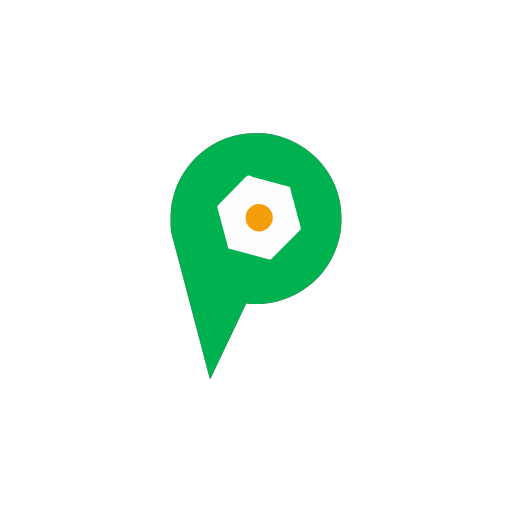
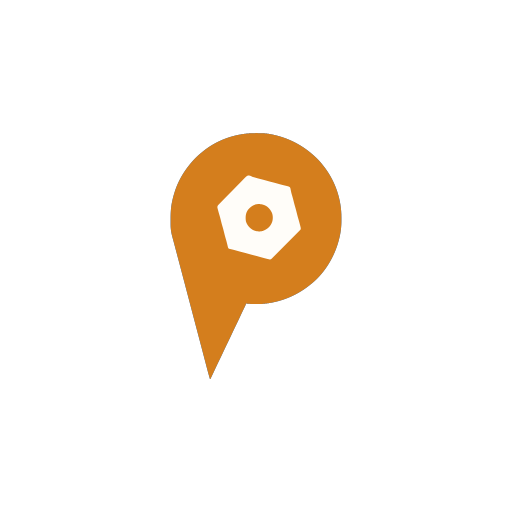
Draw the mark in the brand's amber, not the artwork's green.
The logo arrived green while the brand token is signal amber, and
.ai/rules/tokens.md already recorded that this exact green was proposed as
the brand once and turned down. Asked to settle it, we keep the brand and
move the mark.

So the SVG is now the source of the geometry alone. Each of its fills maps
to a palette token in scripts/lib/svg-mark.mjs, and the generated
src/lib/logo.ts carries token names rather than hexes -- a re-export in new
colours throws there instead of guessing. AppLogo reads the palette by
scheme, the way every lucide glyph here already does, since react-native-svg
sits outside NativeWind and has no currentColor to inherit.

The counter becomes brand-foreground, which is what it literally is: the
colour meant to sit on the brand. That earns dark mode for free -- near
white on amber in light, near black on lighter amber in dark. The dot drops
its second accent and shares brand with the pin, reading as the pin showing
through the counter.

Icons take the light values in both themes; a launcher icon has no scheme to
follow, and Android's themed layer is a silhouette it tints itself.

Changed region(s): [[0.3125, 0.25, 0.6875, 0.75]]

diff --git a/src/lib/logo.ts b/src/lib/logo.ts
@@ -8,17 +8,21 @@ export const LOGO_VIEW_BOX = '190.65 54.69 618.76 890.31';
 /** How much narrower than tall the mark is, from those same bounds. */
 export const LOGO_ASPECT = 618.76 / 890.31;
 
+/** The palette tokens the mark is drawn in. */
+export type LogoRole = 'brand' | 'brand-foreground';
+
 /** One filled path of the mark, painted in the order they are listed. */
-export type LogoShape = { d: string; fill: string; transform: string };
+export type LogoShape = { d: string; role: LogoRole; transform: string };
 
 /**
- * The mark carries its own colours rather than taking them from the palette.
- * It is one fixed thing in both themes: the white counter sits against the
- * green it is punched out of, never against the page, so it needs no dark
- * variant. See .ai/rules/logo.md before reaching for a token here.
+ * The mark takes its colours from the palette rather than from the artwork.
+ * The SVG is green; the brand is amber, and the mark follows the brand. The
+ * counter is `brand-foreground` because that is exactly what it is -- the
+ * colour meant to sit on top of the brand -- so it inverts with the theme
+ * without needing a rule of its own. See .ai/rules/logo.md.
  */
 export const LOGO_SHAPES: LogoShape[] = [
-    { d: 'M0 0 C1.10788879 0.00215515 2.21577759 0.0043103 3.35723877 0.00653076 C19.24384663 0.05616655 34.78624969 0.33830816 50.4375 3.3125 C52.06776123 3.61051514 52.06776123 3.61051514 53.73095703 3.91455078 C110.55944732 14.52370118 161.94533198 39.32200436 205.4375 77.3125 C206.25089844 78.01375 207.06429687 78.715 207.90234375 79.4375 C219.67798305 89.78282039 230.84067971 100.91072672 240.4375 113.3125 C241.28946592 114.36506639 242.14375585 115.41575467 243 116.46484375 C286.08561409 169.61408153 310.21604723 238.11134252 309.82861328 306.44873047 C309.81250582 309.81128465 309.82859269 313.17263753 309.84765625 316.53515625 C309.8675999 336.08411415 307.96751781 355.28485527 303.6875 374.375 C303.42928467 375.54216553 303.17106934 376.70933105 302.9050293 377.91186523 C287.92383559 443.85334587 249.79618751 508.93499159 195.4375 550.3125 C194.15398619 551.32299838 192.87151794 552.33482559 191.58984375 553.34765625 C144.49698765 590.2906245 87.09391791 613.00147315 27.4375 618.3125 C26.27476562 618.42335938 25.11203125 618.53421875 23.9140625 618.6484375 C4.03234094 620.27233087 -15.74920783 619.3086945 -35.5625 617.3125 C-35.83924561 618.18890137 -36.11599121 619.06530273 -36.40112305 619.96826172 C-37.47374585 623.05692835 -38.70768017 625.88711552 -40.14453125 628.8203125 C-40.65725586 629.87412109 -41.16998047 630.92792969 -41.69824219 632.01367188 C-42.25157227 633.14353516 -42.80490234 634.27339844 -43.375 635.4375 C-44.5668048 637.88656953 -45.75481962 640.33746094 -46.94140625 642.7890625 C-47.24488983 643.415849 -47.54837341 644.0426355 -47.86105347 644.68841553 C-50.92217723 651.02750241 -53.87018437 657.41752836 -56.8125 663.8125 C-62.11156564 675.30830941 -67.61057556 686.69785667 -73.16592407 698.07159424 C-77.8818148 707.73135944 -82.51038172 717.42000984 -87 727.1875 C-92.40750402 738.94950749 -98.04977821 750.58639724 -103.73748779 762.21472168 C-109.17857175 773.3443535 -114.48600083 784.52059341 -119.66015625 795.77734375 C-124.00073358 805.18554511 -128.51537813 814.50279342 -133.0625 823.8125 C-139.39509975 836.77936934 -145.55963211 849.80922068 -151.6015625 862.9140625 C-155.83399331 872.08850325 -160.19220763 881.20310156 -164.5625 890.3125 C-165.2225 890.3125 -165.8825 890.3125 -166.5625 890.3125 C-170.64934547 876.23543005 -174.51593416 862.11423644 -178.2109375 847.9296875 C-178.74124174 845.90150068 -179.27178152 843.87337544 -179.80253601 841.8453064 C-180.92961979 837.53705486 -182.05535197 833.22845355 -183.17996216 828.91955566 C-185.8951985 818.51688125 -188.61799808 808.11618501 -191.3401432 797.71531677 C-192.27228007 794.15355907 -193.20415797 790.59173368 -194.1360321 787.02990723 C-199.69485524 765.7869543 -205.28951908 744.55354388 -210.89600372 723.32312775 C-213.10983804 714.93958365 -215.32273214 706.55579135 -217.53515625 698.171875 C-217.78003029 697.24395267 -218.02490433 696.31603035 -218.27719879 695.35998917 C-224.11722021 673.22739585 -229.92890624 651.08737219 -235.73978424 628.94711304 C-244.39215167 595.98089908 -253.0568325 563.01798062 -261.75 530.0625 C-261.99458199 529.1352927 -262.23916397 528.2080854 -262.49115753 527.25278091 C-270.76683033 495.88128423 -279.05584689 464.51330918 -287.35336304 433.14758301 C-287.5814437 432.28540476 -287.80952436 431.42322651 -288.04451656 430.53492165 C-288.49794684 428.82100974 -288.95142559 427.10711066 -289.40495396 425.39322472 C-290.50235977 421.2455803 -291.59862272 417.09764072 -292.692276 412.94900513 C-294.66833537 405.45583511 -296.65196934 397.9650477 -298.66906548 390.48280239 C-299.59659042 387.0387299 -300.51796256 383.59302577 -301.43864822 380.14711952 C-301.87174911 378.53252344 -302.30768058 376.91868326 -302.7468071 375.30571556 C-306.67930211 360.85581801 -308.87442191 347.04892838 -308.86328125 332.0078125 C-308.86719107 330.6728401 -308.87153018 329.3378689 -308.87626648 328.00289917 C-308.88365863 325.22129267 -308.88349216 322.43981316 -308.87817383 319.65820312 C-308.87356906 316.86213987 -308.88037059 314.06651433 -308.89868164 311.27050781 C-309.03922833 289.59986027 -307.93776436 268.36085039 -303.25 247.125 C-303.03907715 246.14563477 -302.8281543 245.16626953 -302.61083984 244.15722656 C-300.3819042 234.07417851 -297.66065121 224.16121881 -294.5625 214.3125 C-294.30774902 213.49894043 -294.05299805 212.68538086 -293.79052734 211.84716797 C-282.82392588 177.42097767 -265.03062541 145.49183905 -242.5625 117.3125 C-241.77101563 116.30703125 -240.97953125 115.3015625 -240.1640625 114.265625 C-227.29827822 98.19500637 -212.7397413 83.0421325 -196.5625 70.3125 C-194.85361141 68.87566013 -193.14529321 67.43814165 -191.4375 66 C-137.76723733 22.36932233 -68.77877863 -0.24047175 0 0 Z', fill: '#00B14F', transform: 'translate(499.5625,54.6875)' },
-    { d: 'M0 0 C3.43339424 1.02955233 6.31653655 2.48901244 9.46592712 4.21323299 C11.30107037 4.77440189 13.14940511 5.29803886 15.01670837 5.74057674 C16.60492472 6.20731788 18.19217974 6.67734342 19.77842712 7.15073299 C26.64193356 9.15659908 33.51894945 11.0191659 40.46592712 12.71323299 C48.24167798 14.61104597 55.92582213 16.74661455 63.61045837 18.98276424 C69.53295173 20.69370677 75.47737714 22.25144703 81.46592712 23.71323299 C89.13959047 25.58649193 96.72252814 27.68890554 104.30284119 29.90805721 C112.21147412 32.19847948 120.18931814 34.17096091 128.20909119 36.03330135 C141.49627207 39.22154569 141.49627207 39.22154569 145.46592712 42.21323299 C147.11323649 45.06766782 147.61553511 47.92338089 148.15342712 51.15073299 C148.52828625 52.96277286 148.90732955 54.77395123 149.29014587 56.58432674 C149.47754333 57.5161578 149.6649408 58.44798885 149.85801697 59.40805721 C150.83363254 63.90999411 152.15228786 68.30041332 153.46592712 72.71323299 C155.4499025 79.51408679 157.28600966 86.33105599 158.96592712 93.21323299 C160.62576104 100.01261694 162.44322928 106.74435957 164.40342712 113.46323299 C166.92447885 122.10822812 169.14118388 130.80696436 171.28599548 139.55210018 C172.71103963 145.31940349 174.23751573 151.02979326 175.96592712 156.71323299 C178.09740041 163.74814481 179.9726252 170.83798153 181.77842712 177.96323299 C182.17868103 179.51880917 182.17868103 179.51880917 182.58702087 181.10581112 C182.83194275 182.08485409 183.07686462 183.06389706 183.32920837 184.07260799 C183.54875183 184.94369198 183.76829529 185.81477596 183.99449158 186.71225643 C184.50323194 189.4111359 184.76100818 191.47287177 184.46592712 194.21323299 C182.78877354 196.53355885 182.78877354 196.53355885 180.38842773 198.95929623 C179.48429138 199.8847575 178.58015503 200.81021877 177.64862061 201.76372433 C176.63364743 202.77694993 175.61839442 203.78989528 174.60289001 204.80258846 C173.54260619 205.87783291 172.48335546 206.95409692 171.42506409 208.03130245 C168.54627171 210.9542912 165.65141243 213.86084442 162.75204015 216.76340532 C160.33269318 219.18749958 157.92021232 221.61837404 155.50736803 224.04893792 C149.81385202 229.78317568 144.10617341 235.50305388 138.39048767 241.21518612 C132.49510394 247.10756606 126.62817131 253.02725289 120.77391821 258.9604739 C115.74621535 264.05356235 110.69941427 269.12717871 105.63731569 274.18608105 C102.61433792 277.20778401 99.59962856 280.23673878 96.60385323 283.28543377 C93.78494276 286.15276775 90.94300035 288.99508232 88.08165359 291.82005024 C87.03657219 292.85990399 85.99994546 293.90833635 84.9726963 294.96580982 C77.2011325 302.95098979 77.2011325 302.95098979 72.87196541 303.60526085 C70.58536327 303.3717821 68.64008368 302.93932386 66.46592712 302.21323299 C65.63287048 302.05572567 64.79981384 301.89821835 63.94151306 301.73593807 C63.28441345 301.56989071 62.62731384 301.40384335 61.95030212 301.23276424 C61.18524353 301.04133846 60.42018494 300.84991268 59.63194275 300.65268612 C58.83465759 300.44579159 58.03737244 300.23889706 57.21592712 300.02573299 C56.35676697 299.8072369 55.49760681 299.58874081 54.6124115 299.36362362 C47.47669981 297.5266565 40.39896883 295.5025844 33.32432556 293.44492245 C27.40103335 291.73290911 21.45550422 290.17525575 15.46592712 288.71323299 C7.69021987 286.81522571 0.00604102 284.67985402 -7.67860413 282.44370174 C-13.60109711 280.73275933 -19.54551948 279.17500587 -25.53407288 277.71323299 C-33.29594994 275.81860158 -40.97002255 273.69763007 -48.63685608 271.45029354 C-53.14853321 270.13955131 -57.66266016 268.91594816 -62.23329163 267.82651424 C-63.15368225 267.60672909 -64.07407288 267.38694393 -65.02235413 267.16049862 C-66.78419935 266.74617178 -68.54848325 266.34204432 -70.31532288 265.94956112 C-71.10294006 265.76458065 -71.89055725 265.57960018 -72.70204163 265.38901424 C-73.39579895 265.23344051 -74.08955627 265.07786678 -74.80433655 264.9175787 C-76.53407288 264.21323299 -76.53407288 264.21323299 -78.53407288 261.21323299 C-79.03535703 259.58129989 -79.47215533 257.92903331 -79.86610413 256.26792049 C-80.10450012 255.28275448 -80.34289612 254.29758846 -80.58851624 253.28256893 C-80.83867493 252.22843807 -81.08883362 251.17430721 -81.34657288 250.08823299 C-83.07065714 242.99479784 -84.82700054 235.9417873 -86.97157288 228.96323299 C-89.63951477 220.23158841 -91.76487772 211.37159017 -93.94569397 202.50815487 C-95.69250792 195.45243387 -97.56485009 188.47156341 -99.69032288 181.52182674 C-101.82649033 174.4431542 -103.54044427 167.26359692 -105.301651 160.08432674 C-106.76476525 154.16416779 -108.3283674 148.29929263 -110.09657288 142.46323299 C-111.99383781 136.16165816 -113.75760529 129.83392053 -115.40907288 123.46323299 C-115.75047302 122.1933453 -115.75047302 122.1933453 -116.09877014 120.89780331 C-116.40319031 119.70042538 -116.40319031 119.70042538 -116.71376038 118.47885799 C-116.89664612 117.77535213 -117.07953186 117.07184628 -117.26795959 116.34702206 C-117.74722571 112.50409922 -117.11752999 109.97746856 -114.75621796 106.88452721 C-113.5850153 105.67794252 -113.5850153 105.67794252 -112.39015198 104.44698238 C-111.49620224 103.51718563 -110.6022525 102.58738888 -109.68121338 101.62941647 C-108.6825669 100.61143593 -107.68364082 99.59372962 -106.6844635 98.5762701 C-105.63730759 97.49585538 -104.59088283 96.41473161 -103.5451355 95.33295345 C-100.1089754 91.78694616 -96.65101574 88.26262158 -93.19032288 84.74057674 C-91.99798032 83.52547456 -90.80564331 82.31036694 -89.61331177 81.09525394 C-84.65039702 76.04109563 -79.68147089 70.9929694 -74.69724274 65.9598217 C-67.56343489 58.75541142 -60.46741426 51.51794256 -53.41950655 44.2294454 C-48.45573316 39.10211547 -43.45214353 34.01586674 -38.41749907 28.95811945 C-35.41359925 25.93832879 -32.42971811 22.90364656 -29.48727417 19.82384205 C-9.12198533 -1.44650368 -9.12198533 -1.44650368 0 0 Z', fill: '#FEFEFE', transform: 'translate(477.53407287597656,208.7867670059204)' },
-    { d: 'M0 0 C7.42098668 5.53505172 12.68582109 11.82937999 17 20 C17.43441406 20.81726563 17.86882812 21.63453125 18.31640625 22.4765625 C22.83626494 32.65018172 22.95819981 47.31602264 19.02734375 57.75 C18.51880859 58.86375 18.51880859 58.86375 18 60 C17.60941406 60.886875 17.21882812 61.77375 16.81640625 62.6875 C10.14892981 76.28688537 -0.40376915 83.40670632 -14 89 C-25.93749649 92.4134683 -40.25674877 90.90162601 -51 85 C-62.89207982 77.85854214 -71.76092228 67.29727107 -75.640625 53.765625 C-77.59742872 38.70674417 -76.93337933 24.87225954 -67.8125 12.25 C-60.67066808 3.85873312 -53.37899176 -2.15233639 -43 -6 C-41.3603125 -6.6496875 -41.3603125 -6.6496875 -39.6875 -7.3125 C-25.95927802 -9.87199901 -11.80712614 -7.55656073 0 0 Z', fill: '#F59E0C', transform: 'translate(539,320)' },
+    { d: 'M0 0 C1.10788879 0.00215515 2.21577759 0.0043103 3.35723877 0.00653076 C19.24384663 0.05616655 34.78624969 0.33830816 50.4375 3.3125 C52.06776123 3.61051514 52.06776123 3.61051514 53.73095703 3.91455078 C110.55944732 14.52370118 161.94533198 39.32200436 205.4375 77.3125 C206.25089844 78.01375 207.06429687 78.715 207.90234375 79.4375 C219.67798305 89.78282039 230.84067971 100.91072672 240.4375 113.3125 C241.28946592 114.36506639 242.14375585 115.41575467 243 116.46484375 C286.08561409 169.61408153 310.21604723 238.11134252 309.82861328 306.44873047 C309.81250582 309.81128465 309.82859269 313.17263753 309.84765625 316.53515625 C309.8675999 336.08411415 307.96751781 355.28485527 303.6875 374.375 C303.42928467 375.54216553 303.17106934 376.70933105 302.9050293 377.91186523 C287.92383559 443.85334587 249.79618751 508.93499159 195.4375 550.3125 C194.15398619 551.32299838 192.87151794 552.33482559 191.58984375 553.34765625 C144.49698765 590.2906245 87.09391791 613.00147315 27.4375 618.3125 C26.27476562 618.42335938 25.11203125 618.53421875 23.9140625 618.6484375 C4.03234094 620.27233087 -15.74920783 619.3086945 -35.5625 617.3125 C-35.83924561 618.18890137 -36.11599121 619.06530273 -36.40112305 619.96826172 C-37.47374585 623.05692835 -38.70768017 625.88711552 -40.14453125 628.8203125 C-40.65725586 629.87412109 -41.16998047 630.92792969 -41.69824219 632.01367188 C-42.25157227 633.14353516 -42.80490234 634.27339844 -43.375 635.4375 C-44.5668048 637.88656953 -45.75481962 640.33746094 -46.94140625 642.7890625 C-47.24488983 643.415849 -47.54837341 644.0426355 -47.86105347 644.68841553 C-50.92217723 651.02750241 -53.87018437 657.41752836 -56.8125 663.8125 C-62.11156564 675.30830941 -67.61057556 686.69785667 -73.16592407 698.07159424 C-77.8818148 707.73135944 -82.51038172 717.42000984 -87 727.1875 C-92.40750402 738.94950749 -98.04977821 750.58639724 -103.73748779 762.21472168 C-109.17857175 773.3443535 -114.48600083 784.52059341 -119.66015625 795.77734375 C-124.00073358 805.18554511 -128.51537813 814.50279342 -133.0625 823.8125 C-139.39509975 836.77936934 -145.55963211 849.80922068 -151.6015625 862.9140625 C-155.83399331 872.08850325 -160.19220763 881.20310156 -164.5625 890.3125 C-165.2225 890.3125 -165.8825 890.3125 -166.5625 890.3125 C-170.64934547 876.23543005 -174.51593416 862.11423644 -178.2109375 847.9296875 C-178.74124174 845.90150068 -179.27178152 843.87337544 -179.80253601 841.8453064 C-180.92961979 837.53705486 -182.05535197 833.22845355 -183.17996216 828.91955566 C-185.8951985 818.51688125 -188.61799808 808.11618501 -191.3401432 797.71531677 C-192.27228007 794.15355907 -193.20415797 790.59173368 -194.1360321 787.02990723 C-199.69485524 765.7869543 -205.28951908 744.55354388 -210.89600372 723.32312775 C-213.10983804 714.93958365 -215.32273214 706.55579135 -217.53515625 698.171875 C-217.78003029 697.24395267 -218.02490433 696.31603035 -218.27719879 695.35998917 C-224.11722021 673.22739585 -229.92890624 651.08737219 -235.73978424 628.94711304 C-244.39215167 595.98089908 -253.0568325 563.01798062 -261.75 530.0625 C-261.99458199 529.1352927 -262.23916397 528.2080854 -262.49115753 527.25278091 C-270.76683033 495.88128423 -279.05584689 464.51330918 -287.35336304 433.14758301 C-287.5814437 432.28540476 -287.80952436 431.42322651 -288.04451656 430.53492165 C-288.49794684 428.82100974 -288.95142559 427.10711066 -289.40495396 425.39322472 C-290.50235977 421.2455803 -291.59862272 417.09764072 -292.692276 412.94900513 C-294.66833537 405.45583511 -296.65196934 397.9650477 -298.66906548 390.48280239 C-299.59659042 387.0387299 -300.51796256 383.59302577 -301.43864822 380.14711952 C-301.87174911 378.53252344 -302.30768058 376.91868326 -302.7468071 375.30571556 C-306.67930211 360.85581801 -308.87442191 347.04892838 -308.86328125 332.0078125 C-308.86719107 330.6728401 -308.87153018 329.3378689 -308.87626648 328.00289917 C-308.88365863 325.22129267 -308.88349216 322.43981316 -308.87817383 319.65820312 C-308.87356906 316.86213987 -308.88037059 314.06651433 -308.89868164 311.27050781 C-309.03922833 289.59986027 -307.93776436 268.36085039 -303.25 247.125 C-303.03907715 246.14563477 -302.8281543 245.16626953 -302.61083984 244.15722656 C-300.3819042 234.07417851 -297.66065121 224.16121881 -294.5625 214.3125 C-294.30774902 213.49894043 -294.05299805 212.68538086 -293.79052734 211.84716797 C-282.82392588 177.42097767 -265.03062541 145.49183905 -242.5625 117.3125 C-241.77101563 116.30703125 -240.97953125 115.3015625 -240.1640625 114.265625 C-227.29827822 98.19500637 -212.7397413 83.0421325 -196.5625 70.3125 C-194.85361141 68.87566013 -193.14529321 67.43814165 -191.4375 66 C-137.76723733 22.36932233 -68.77877863 -0.24047175 0 0 Z', role: 'brand', transform: 'translate(499.5625,54.6875)' },
+    { d: 'M0 0 C3.43339424 1.02955233 6.31653655 2.48901244 9.46592712 4.21323299 C11.30107037 4.77440189 13.14940511 5.29803886 15.01670837 5.74057674 C16.60492472 6.20731788 18.19217974 6.67734342 19.77842712 7.15073299 C26.64193356 9.15659908 33.51894945 11.0191659 40.46592712 12.71323299 C48.24167798 14.61104597 55.92582213 16.74661455 63.61045837 18.98276424 C69.53295173 20.69370677 75.47737714 22.25144703 81.46592712 23.71323299 C89.13959047 25.58649193 96.72252814 27.68890554 104.30284119 29.90805721 C112.21147412 32.19847948 120.18931814 34.17096091 128.20909119 36.03330135 C141.49627207 39.22154569 141.49627207 39.22154569 145.46592712 42.21323299 C147.11323649 45.06766782 147.61553511 47.92338089 148.15342712 51.15073299 C148.52828625 52.96277286 148.90732955 54.77395123 149.29014587 56.58432674 C149.47754333 57.5161578 149.6649408 58.44798885 149.85801697 59.40805721 C150.83363254 63.90999411 152.15228786 68.30041332 153.46592712 72.71323299 C155.4499025 79.51408679 157.28600966 86.33105599 158.96592712 93.21323299 C160.62576104 100.01261694 162.44322928 106.74435957 164.40342712 113.46323299 C166.92447885 122.10822812 169.14118388 130.80696436 171.28599548 139.55210018 C172.71103963 145.31940349 174.23751573 151.02979326 175.96592712 156.71323299 C178.09740041 163.74814481 179.9726252 170.83798153 181.77842712 177.96323299 C182.17868103 179.51880917 182.17868103 179.51880917 182.58702087 181.10581112 C182.83194275 182.08485409 183.07686462 183.06389706 183.32920837 184.07260799 C183.54875183 184.94369198 183.76829529 185.81477596 183.99449158 186.71225643 C184.50323194 189.4111359 184.76100818 191.47287177 184.46592712 194.21323299 C182.78877354 196.53355885 182.78877354 196.53355885 180.38842773 198.95929623 C179.48429138 199.8847575 178.58015503 200.81021877 177.64862061 201.76372433 C176.63364743 202.77694993 175.61839442 203.78989528 174.60289001 204.80258846 C173.54260619 205.87783291 172.48335546 206.95409692 171.42506409 208.03130245 C168.54627171 210.9542912 165.65141243 213.86084442 162.75204015 216.76340532 C160.33269318 219.18749958 157.92021232 221.61837404 155.50736803 224.04893792 C149.81385202 229.78317568 144.10617341 235.50305388 138.39048767 241.21518612 C132.49510394 247.10756606 126.62817131 253.02725289 120.77391821 258.9604739 C115.74621535 264.05356235 110.69941427 269.12717871 105.63731569 274.18608105 C102.61433792 277.20778401 99.59962856 280.23673878 96.60385323 283.28543377 C93.78494276 286.15276775 90.94300035 288.99508232 88.08165359 291.82005024 C87.03657219 292.85990399 85.99994546 293.90833635 84.9726963 294.96580982 C77.2011325 302.95098979 77.2011325 302.95098979 72.87196541 303.60526085 C70.58536327 303.3717821 68.64008368 302.93932386 66.46592712 302.21323299 C65.63287048 302.05572567 64.79981384 301.89821835 63.94151306 301.73593807 C63.28441345 301.56989071 62.62731384 301.40384335 61.95030212 301.23276424 C61.18524353 301.04133846 60.42018494 300.84991268 59.63194275 300.65268612 C58.83465759 300.44579159 58.03737244 300.23889706 57.21592712 300.02573299 C56.35676697 299.8072369 55.49760681 299.58874081 54.6124115 299.36362362 C47.47669981 297.5266565 40.39896883 295.5025844 33.32432556 293.44492245 C27.40103335 291.73290911 21.45550422 290.17525575 15.46592712 288.71323299 C7.69021987 286.81522571 0.00604102 284.67985402 -7.67860413 282.44370174 C-13.60109711 280.73275933 -19.54551948 279.17500587 -25.53407288 277.71323299 C-33.29594994 275.81860158 -40.97002255 273.69763007 -48.63685608 271.45029354 C-53.14853321 270.13955131 -57.66266016 268.91594816 -62.23329163 267.82651424 C-63.15368225 267.60672909 -64.07407288 267.38694393 -65.02235413 267.16049862 C-66.78419935 266.74617178 -68.54848325 266.34204432 -70.31532288 265.94956112 C-71.10294006 265.76458065 -71.89055725 265.57960018 -72.70204163 265.38901424 C-73.39579895 265.23344051 -74.08955627 265.07786678 -74.80433655 264.9175787 C-76.53407288 264.21323299 -76.53407288 264.21323299 -78.53407288 261.21323299 C-79.03535703 259.58129989 -79.47215533 257.92903331 -79.86610413 256.26792049 C-80.10450012 255.28275448 -80.34289612 254.29758846 -80.58851624 253.28256893 C-80.83867493 252.22843807 -81.08883362 251.17430721 -81.34657288 250.08823299 C-83.07065714 242.99479784 -84.82700054 235.9417873 -86.97157288 228.96323299 C-89.63951477 220.23158841 -91.76487772 211.37159017 -93.94569397 202.50815487 C-95.69250792 195.45243387 -97.56485009 188.47156341 -99.69032288 181.52182674 C-101.82649033 174.4431542 -103.54044427 167.26359692 -105.301651 160.08432674 C-106.76476525 154.16416779 -108.3283674 148.29929263 -110.09657288 142.46323299 C-111.99383781 136.16165816 -113.75760529 129.83392053 -115.40907288 123.46323299 C-115.75047302 122.1933453 -115.75047302 122.1933453 -116.09877014 120.89780331 C-116.40319031 119.70042538 -116.40319031 119.70042538 -116.71376038 118.47885799 C-116.89664612 117.77535213 -117.07953186 117.07184628 -117.26795959 116.34702206 C-117.74722571 112.50409922 -117.11752999 109.97746856 -114.75621796 106.88452721 C-113.5850153 105.67794252 -113.5850153 105.67794252 -112.39015198 104.44698238 C-111.49620224 103.51718563 -110.6022525 102.58738888 -109.68121338 101.62941647 C-108.6825669 100.61143593 -107.68364082 99.59372962 -106.6844635 98.5762701 C-105.63730759 97.49585538 -104.59088283 96.41473161 -103.5451355 95.33295345 C-100.1089754 91.78694616 -96.65101574 88.26262158 -93.19032288 84.74057674 C-91.99798032 83.52547456 -90.80564331 82.31036694 -89.61331177 81.09525394 C-84.65039702 76.04109563 -79.68147089 70.9929694 -74.69724274 65.9598217 C-67.56343489 58.75541142 -60.46741426 51.51794256 -53.41950655 44.2294454 C-48.45573316 39.10211547 -43.45214353 34.01586674 -38.41749907 28.95811945 C-35.41359925 25.93832879 -32.42971811 22.90364656 -29.48727417 19.82384205 C-9.12198533 -1.44650368 -9.12198533 -1.44650368 0 0 Z', role: 'brand-foreground', transform: 'translate(477.53407287597656,208.7867670059204)' },
+    { d: 'M0 0 C7.42098668 5.53505172 12.68582109 11.82937999 17 20 C17.43441406 20.81726563 17.86882812 21.63453125 18.31640625 22.4765625 C22.83626494 32.65018172 22.95819981 47.31602264 19.02734375 57.75 C18.51880859 58.86375 18.51880859 58.86375 18 60 C17.60941406 60.886875 17.21882812 61.77375 16.81640625 62.6875 C10.14892981 76.28688537 -0.40376915 83.40670632 -14 89 C-25.93749649 92.4134683 -40.25674877 90.90162601 -51 85 C-62.89207982 77.85854214 -71.76092228 67.29727107 -75.640625 53.765625 C-77.59742872 38.70674417 -76.93337933 24.87225954 -67.8125 12.25 C-60.67066808 3.85873312 -53.37899176 -2.15233639 -43 -6 C-41.3603125 -6.6496875 -41.3603125 -6.6496875 -39.6875 -7.3125 C-25.95927802 -9.87199901 -11.80712614 -7.55656073 0 0 Z', role: 'brand', transform: 'translate(539,320)' },
 ];

diff --git a/src/components/__tests__/app-logo.test.tsx b/src/components/__tests__/app-logo.test.tsx
@@ -1,8 +1,16 @@
 import { render, screen } from '@testing-library/react-native';
+import { useColorScheme } from 'nativewind';
 import { Path } from 'react-native-svg';
 
 import { AppLogo } from '@/components/app-logo';
 import { LOGO_ASPECT, LOGO_SHAPES } from '@/lib/logo';
+import palette from '@/theme/palette';
+
+jest.mock('nativewind', () => ({ useColorScheme: jest.fn() }));
+
+beforeEach(() => {
+    jest.mocked(useColorScheme).mockReturnValue({ colorScheme: 'light' } as never);
+});
 
 it('draws every shape of the mark', () => {
     render(<AppLogo />);
@@ -22,9 +30,15 @@ it.each([24, 56, 128])('keeps its proportions at %ipt tall', (height) => {
     expect(mark.props.width / height).toBeCloseTo(LOGO_ASPECT, 1);
 });
 
-// The mark is one fixed thing in both themes; nothing may tint it.
-it('draws the mark in the artwork colours', () => {
+// The artwork is green and the brand is amber; the brand wins. Nothing may
+// reach back to the SVG's own fills.
+it.each(['light', 'dark'] as const)('draws the mark in the %s brand colours', (scheme) => {
+    jest.mocked(useColorScheme).mockReturnValue({ colorScheme: scheme } as never);
+
     render(<AppLogo />);
 
-    expect(LOGO_SHAPES.map((shape) => shape.fill)).toEqual(['#00B14F', '#FEFEFE', '#F59E0C']);
+    expect(screen.UNSAFE_getAllByType(Path).map((path) => path.props.fill)).toEqual(
+        LOGO_SHAPES.map((shape) => palette[scheme][shape.role]),
+    );
+    expect(screen.UNSAFE_getAllByType(Path)[0].props.fill).toBe(palette[scheme].brand);
 });

diff --git a/src/components/app-logo.tsx b/src/components/app-logo.tsx
@@ -1,6 +1,8 @@
+import { useColorScheme } from 'nativewind';
 import Svg, { Path } from 'react-native-svg';
 
 import { LOGO_ASPECT, LOGO_SHAPES, LOGO_VIEW_BOX } from '@/lib/logo';
+import palette from '@/theme/palette';
 
 type Props = { height?: number };
 
@@ -9,8 +11,15 @@ type Props = { height?: number };
  *
  * Every other icon here takes a square `size`; this one cannot, since holding
  * one side to it would squash the pin. The width follows from the artwork.
+ *
+ * The colours are read here rather than inherited: react-native-svg is outside
+ * NativeWind's reach and has no `currentColor`, so the palette is keyed by the
+ * scheme the same way every lucide glyph in this repo is.
  */
 export function AppLogo({ height = 40 }: Props) {
+    const { colorScheme } = useColorScheme();
+    const colours = palette[colorScheme ?? 'light'];
+
     return (
         <Svg
             width={Math.round(height * LOGO_ASPECT)}
@@ -18,11 +27,11 @@ export function AppLogo({ height = 40 }: Props) {
             viewBox={LOGO_VIEW_BOX}
             accessibilityLabel="Paayo"
         >
-            {LOGO_SHAPES.map((shape) => (
+            {LOGO_SHAPES.map((shape, at) => (
                 <Path
-                    key={shape.fill}
+                    key={at}
                     d={shape.d}
-                    fill={shape.fill}
+                    fill={colours[shape.role]}
                     transform={shape.transform}
                 />
             ))}

diff --git a/.ai/rules/logo.md b/.ai/rules/logo.md
@@ -29,21 +29,34 @@ them by eye gives a mark that is quietly too small and slightly off-centre.
 The script accepts absolute `M`/`C`/`Z` and throws on anything else. A new
 export using other commands needs the walker taught them, not the check removed.
 
-## The mark is green. The brand is not.
-The artwork is `#00B14F` green with a `#F59E0C` dot; the live brand token is
-signal amber, `212 126 29`. That is not an oversight to reconcile -- see
-`.ai/rules/tokens.md`, where the same green was proposed as the brand colour and
-was never adopted. Two consequences:
+## The artwork is green. The mark is drawn in amber.
+The SVG is `#00B14F` green with a `#F59E0C` dot. The brand token is signal
+amber, and it stays amber -- `.ai/rules/tokens.md` records that this same green
+was proposed as the brand colour and was never adopted. Asked to choose between
+them, we kept the brand and moved the mark. So:
 
-- **Do not re-token the palette from the artwork.** Colours come from the
-  console's `app.css` through `sync-tokens.mjs`, and from nowhere else.
-- **Do not tint the mark from the palette either.** It carries its own fills
-  and is the same in both themes. The white counter is punched out of the green
-  it sits inside, never seen against the page, so there is no dark variant to
-  add and no `currentColor` to inherit -- `react-native-svg` has neither.
+- **The SVG is the source of the geometry, not of the colour.** Do not read a
+  fill out of it at runtime, and do not re-token the palette from it either.
+  Colours come from the console through `sync-tokens.mjs` and from nowhere else.
+- **`scripts/lib/svg-mark.mjs` maps each artwork colour to a palette token**
+  and `sync-logo.mjs` bakes the token names, not the hexes, into
+  `src/lib/logo.ts`. A re-export in different colours throws there rather than
+  quietly picking a token for itself.
+- **The counter is `brand-foreground`, which is what it literally is** -- the
+  colour meant to sit on top of the brand. That is why the mark inverts
+  correctly in dark mode without a rule of its own: near-white on amber in
+  light, near-black on lighter amber in dark.
+- **The dot shares `brand` with the pin.** In the artwork it was a second
+  accent colour; with one brand colour it reads as the pin showing through the
+  counter, which is the same shape and needs no third token.
 
-If the brand ever does move to the green, that is a change to the console's
-tokens first, and this file follows.
+`AppLogo` reads the palette by scheme rather than inheriting anything.
+`react-native-svg` sits outside NativeWind and has no `currentColor`, so this
+matches how every lucide glyph here is coloured.
+
+The launcher icons take the **light** values in both themes: an icon is one
+file with no scheme to follow, sitting on the white ground the script paints
+below it. Android's themed icon is the dark case, and it is a silhouette.
 
 ## `AppLogo` takes a height, not a size
 Every other icon here is square and takes `size`. The pin is roughly 0.7 as

diff --git a/.ai/rules/tokens.md b/.ai/rules/tokens.md
@@ -35,6 +35,10 @@ The live brand is signal amber -- `--brand: oklch(0.672 0.146 62)` in the
 console, which converts to `212 126 29`. Take colours from the console, and
 from nowhere else.
 
+The same green came back in the logo artwork, and the answer was the same: the
+mark is drawn in the brand token, not in the colour the SVG happens to carry.
+See `.ai/rules/logo.md`.
+
 ## Three outputs, because not everything can read a variable
 `global.css` holds the variables, `colors.js` points Tailwind at them, and
 `palette.js` spells the same colours out as literals. NativeWind resolves the
